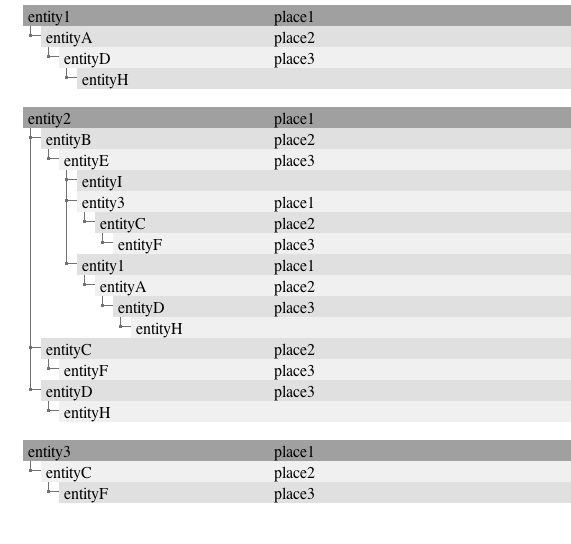
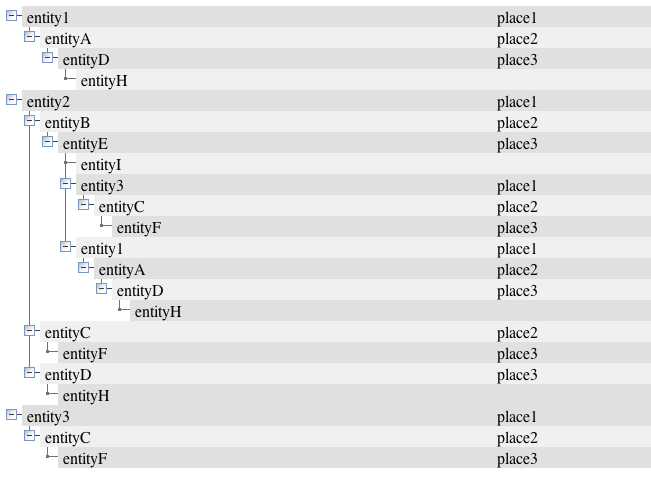
now nodes can collapse

diff --git a/tree.css b/tree.css
@@ -1,75 +1,3 @@
-.Container {
-	padding: 0;
-	margin: 0;
-}
-
-.Container li {
-	list-style-type: none;
-}
-
-/* indent for all tree children excepts root */
-.Node {
-	background-image: url(img/i.gif);
-	background-position: top left;
-	background-repeat: repeat-y;
-	margin-left: 18px;
-	zoom: 1;
-}
-
-.IsRoot {
-	margin-left: 0;
-}
-
-/* left vertical line (grid) for all nodes */
-.IsLast {
-	background-image: url(img/i_half.gif);
-	background-repeat: no-repeat;
-}
-
-.ExpandOpen .Expand {
-	background-image: url(img/expand_leaf.gif);
-}
-
-/* closed is higher priority than open */
-.ExpandClosed .Expand {
-	background-image: url(img/expand_leaf.gif);
-}
-
-/* highest priority */
-.ExpandLeaf .Expand {
-	background-image: url(img/expand_leaf.gif);
-}
-
-.Content {
-	min-height: 18px;
-	margin-left: 18px;
-}
-
-* html  .Content {
-	height: 18px;
-}
-
-.Expand {
-	width: 18px;
-	height: 18px;
-	float: left;
-}
-
-.ExpandLoading {
-	width: 18px;
-	height: 18px;
-	float: left;
-	background-image: url(img/expand_loading.gif);
-}
-
-.ExpandOpen .Container {
-	display: block;
-}
-
-.ExpandClosed .Container {
-	display: none;
-}
-
 table {
 	border: none;
 }
@@ -79,4 +7,103 @@ td {
 	padding-right: 5px;
 	padding-top: 3px;
 	padding-bottom: 0px;
+}
+
+.Grayed {
+	background-color:#f0f0f0;
+	
+}
+
+.NotGrayed {
+	background-color:#e0e0e0;	
+}
+
+.White {
+	background-color:#ffffff;
+}
+
+/* ---------- */
+
+.Container {
+    padding: 0;
+    margin: 0;
+}
+
+.Container li {
+    list-style-type: none;
+}
+
+
+
+/* indent for all tree children excepts root */
+.Node {
+    background-image : url(img/i.gif);
+    background-position : top left;
+    background-repeat : repeat-y;
+    margin-left: 18px;
+    zoom: 1;
+}
+
+.IsRoot {
+    margin-left: 0;
+}
+
+/* left vertical line (grid) for all nodes */
+.IsLast {
+    background-image: url(img/i_half.gif);
+    background-repeat : no-repeat;
+}
+ 
+.ExpandOpen .Expand {
+    background-image: url(img/expand_minus.gif);
+}
+ 
+/* closed is higher priority than open */
+.ExpandClosed .Expand {
+    background-image: url(img/expand_plus.gif);
+}
+ 
+/* highest priority */
+.ExpandLeaf .Expand {
+    background-image: url(img/expand_leaf.gif);
+}
+
+.Content {
+    min-height: 18px;
+    margin-left:18px;
+}
+
+* html  .Content {
+    height: 18px; 
+}
+
+.Expand {
+    width: 18px;
+    height: 21px;
+    float: left;
+}
+
+
+.ExpandLoading   {
+    width: 18px;
+    height: 18px;
+    float: left;
+    background-image: url(img/expand_loading.gif);
+}
+
+
+
+.ExpandOpen .Container {
+	display: block;
+}
+
+.ExpandClosed .Container {
+	display: none;
+}
+
+.ExpandOpen .Expand, .ExpandClosed .Expand {
+	cursor: pointer;
+}
+.ExpandLeaf .Expand {
+	cursor: auto;
 }

diff --git a/tree.js b/tree.js
@@ -59,47 +59,54 @@ function outLocation(location) {
 	var entities = getEntitiesFrom(location);
 	for ( var i in entities) {
 		var entity = entities[i];
+		p=1;
 		outEntity(entity, 1, new Boolean(false));
-		out("<br>");
 	}
 }
 
-var p = 0;
+var p = 1;
 
 function outEntity(e, n, last) {
 
 	var location = getLocationOf(e);
+	var entities3 = getDependenciesFor(e);
 
-	var color = "#e0e0e0";
+	var grayed = "NotGrayed";
 	if (p % 2 == 0) {
-		color = "#F0F0F0";
+		grayed = "Grayed";
 	}
 
 	p++;
 
+	if (n == 1) {
+		grayed = "NotGrayed";
+	}
+	
 	out('<ul class="Container">');
 
 	if (n == 1) {
-		out('<li class="IsRoot">');
-		color = "#a0a0a0";
+		out('<li class="IsRoot ExpandClosed">');
 	} else {
 		var isLast = "";
+		var isLeaf = "ExpandOpen";
 		if (last == true) {
 			isLast = "IsLast";
 		}
-		out('<li class="Node ExpandOpen ' + isLast + ' ">');
+		if (entities3.length == 0){
+			isLeaf = "ExpandLeaf";
+		}
+		out('<li class="Node '+ isLeaf+ " " + isLast + ' ">');
 	}
-
+	
 	out('<div class="Expand"></div>');
 	out('<div class="Content">');
-	out('<table width=100% cellspacing="0" cellpadding="0"><tr bgcolor='
-			+ color + '><td>' + e + '</td><td width=800px>'
+	out('<table width=100% cellspacing="0" cellpadding="0"><tr class="'
+			+ grayed + '"><td>' + e + '</td><td width=800px>'
 			+ location.replace("unknown", "") + '</td></tr></table>');
 	out('</div>');
 
-	var entities3 = getDependenciesFor(e);
 
-	for ( var i3 in entities3) {
+	for (var i3 in entities3) {
 		var eN = entities3[i3];
 
 		outEntity(eN, n + 1, i3 == Object.keys(entities3).length - 1);
@@ -117,4 +124,26 @@ function out(str) {
 
 window.onload = function() {
 	outLocation("place1");
+}
+
+function tree_toggle(event) {
+	event = event || window.event
+	var clickedElem = event.target || event.srcElement
+
+	if (!hasClass(clickedElem, 'Expand')) {
+		return
+	}
+
+	var node = clickedElem.parentNode
+	if (hasClass(node, 'ExpandLeaf')) {
+		return
+	}
+
+	var newClass = hasClass(node, 'ExpandOpen') ? 'ExpandClosed' : 'ExpandOpen'
+	var re =  /(^|\s)(ExpandOpen|ExpandClosed)(\s|$)/
+	node.className = node.className.replace(re, '$1'+newClass+'$3')
+}
+
+function hasClass(elem, className) {
+	return new RegExp("(^|\\s)"+className+"(\\s|$)").test(elem.className)
 }

diff --git a/tree.html b/tree.html
@@ -6,6 +6,6 @@
         <link rel="stylesheet" type="text/css" href="tree.css">
     </head>
     <body>
-    	<div id="tree-content"></div>
+    	<div id="tree-content" onclick="tree_toggle(arguments[0])"></div>
     </body>
 </html>
